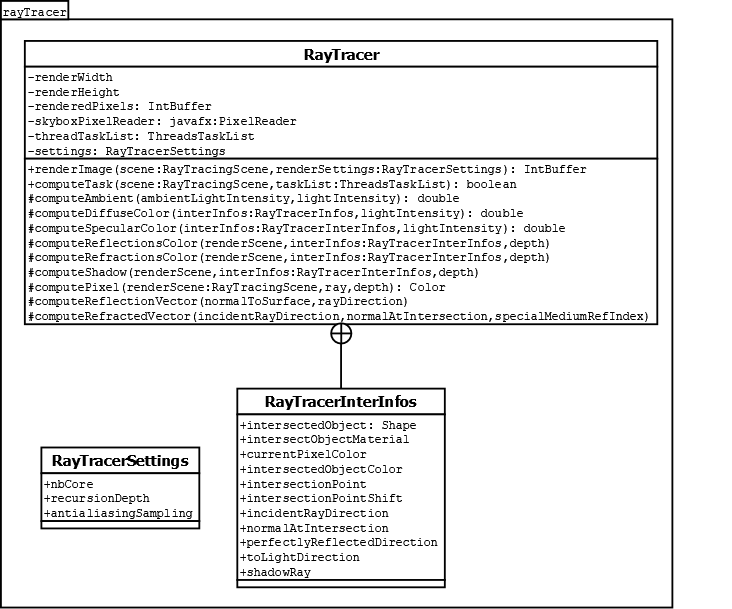
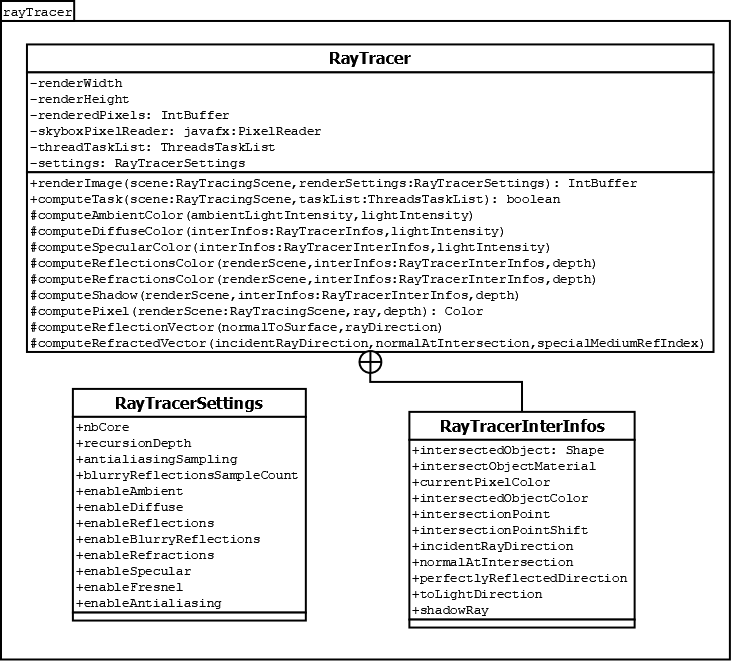
Mise à jour du diagramme du package rayTracer et rayTracingScene. Ajout d'un fichier séparé pour les annexes

Changed region(s): [[0.0301, 0.0312, 1.0, 1.0], [0.0, 0.0, 0.1202, 0.0312]]

diff --git a/rapport/latex/RT/mouvementsCam.tex b/rapport/latex/RT/mouvementsCam.tex
@@ -4,7 +4,7 @@
 \begin{document}
 
 
-Afin de pouvoir se déplacer dans la scène, nous nous sommes attelé à l'implémentation de mouvements de caméra grâce aux touches du clavier. Les mouvements possible sont: les translations de la caméra ainsi que les rotations de cette dernière autour des axes X et Y. Translater la caméra est assez simple. Il suffit de choisir un vecteur par lequel translater la caméra et appliquer cette même translation à l'origine des rayons (car leur origine doit rester la caméra) ainsi qu'à leur point de direction. Pour ce qui est des rotations, le principe est le même. En effet, faire une rotation de la caméra de 90\degree\ autour de l'axe Y revient à appliquer la même rotation aux points de direction des rayons. Afin de simplifier l'utilisation des translation et des rotations, nous avons utilisé une matrice appelée la CTWMatrix (Camera To World Matrix). Cette matrice rassemble les transformations de translation et de rotation appliquées à la caméra. Il n'y a donc plus qu'à multiplier le point que l'on veut transformer par cette matrice et le tour est joué.\\
+Afin de pouvoir se déplacer dans la scène, nous nous sommes attelé à l'implémentation de mouvements de caméra grâce aux touches du clavier. Les mouvements possible sont: les translations de la caméra ainsi que les rotations de cette dernière autour des axes X et Y. Translater la caméra est assez simple. Il suffit de choisir un vecteur par lequel translater la caméra et appliquer cette même translation à l'origine des rayons (car leur origine doit rester la caméra) ainsi qu'à leur point de direction. Pour ce qui est des rotations, le principe est le même. En effet, faire une rotation de la caméra de 90\degree\ autour de l'axe Y revient à appliquer la même rotation aux points de direction des rayons. Afin de simplifier l'utilisation des translations et des rotations, nous avons utilisé une matrice appelée la CTWMatrix (Camera To World Matrix). Cette matrice rassemble les transformations de translation et de rotation appliquées à la caméra. Il n'y a donc plus qu'à multiplier le point que l'on veut transformer par cette matrice et le tour est joué.\\
 Les matrices de rotation dans un espace de dimension 3 se présentent sous la forme suivante:
 
 \begin{center}
@@ -52,5 +52,6 @@ On sait que la multiplication de deux matrices de rotation donne aussi une matri
 
 Multiplier un point par cette matrice revient alors à effectuer les rotations des deux matrices $R_{Y_{\alpha}}$ et $R_{X_{\beta}}$ et ensuite à translater le point résultant par le vecteur $\overrightarrow{u}(a, b, c)$.Tout cela en une seule opération de multiplication matricielle.
 
+Des schémas représentant les rotations de la caméra autour des axes X et Y sont disponibles en annexe \ref{annexe:rotationsCamera}
 
 \end{document}

diff --git a/rapport/latex/mesuresPerf.tex b/rapport/latex/mesuresPerf.tex
@@ -3,7 +3,7 @@
 
 \begin{document}
 
-Comme présenté dans la section \ref{multithreading}, nous application tire partie de toute la puissnce du processeur de la machine. Le but étant de réduire le temps de calcul, nous présentons dans cette section les gains perçus en terme de performances.\\
+Comme présenté dans la section \ref{multithreading}, nous application tire partie de toute la puissnce du processeur de la machine. Le but étant de réduire le temps de calcul, nous présentons dans cette section les gains perçus en terme de performances suite au multithreading de notre application.\\
 Nous comparerons les temps de rendu par image pour différentes résolutions et différents nombre de threads. L'image sera toujours découpée en $nbThread^2$ tuiles.
 
 \begin{figure}[h!]
@@ -15,6 +15,5 @@ Nous comparerons les temps de rendu par image pour différentes résolutions et 
 \FloatBarrier
 Toutes les mesures ont été faites sur un CPU disposant de 8 processeurs. La scène rendue est la même que celle de la \figurename\ \ref{reflectionsDemo}.\\
 On observe une réduction significative des temps de rendu quand le nombre de threads utilisé augmente. On passe en effet, pour une résolution de 512*512, de 72.87ms en moyenne à 16.72ms de temps de calcul par image. Cela se traduit par un affichage fluide d'un peu moins de 15 images par seconde avec 1 thread. Avec 8 threads, nous passons à environ 60 images par seconde. Les performances ont donc été multipliées par 4.\\
-Cette multiplication des performances nous permet entre autre de pouvoir profiter de mouvements fluides lorsque l'on déplace la caméra. Sans ces 8 threads, les mouvement seraient saccadés et peu agréables dû aux temps de rendu trop importants. Bien entendu, les temps de rendu dépendent aussi de la complexité de la scène. Nous avons remarqué que les matériaux réfractifs ont tendance à être plus lourds à calculer que les matériaux mats. Cela s'explique par le fait qu'un matériau réfractif demande de nombreux appels récursifs.
 
 \end{document}

diff --git a/rapport/latex/RT/multithreading.tex b/rapport/latex/RT/multithreading.tex
@@ -6,11 +6,11 @@
 \label{multithreading}
 Les algorithmes de ray tracing sont réputés pour être lents à exécuter. Cependant, chaque pixel pouvant être calculé totalement indépendemment des autres, ces algorithmes sont des cibles parfaites pour la parallélisation de calcul. Nous avons donc mis en place, afin d'accélérer les temps de rendu, un multithreading de l'application grâce aux threads de Java. Pour ce faire, nous découpons l'image à rendre en plusieures "tuiles". Nous construisons ensuite une tâche à partir de chaque tuile. Une tâche consistant en:
 \begin{itemize}
-	\item{Un pixel de départ X et Y}	
-	\item{Un pixel d'arrivée X et Y}
+	\item{Un pixel de départ X et Y sur l'image à rendre}	
+	\item{Un pixel d'arrivée X et Y sur l'image à rendre}
 \end{itemize}
-A partir de toutes ces tâches est ensuite construite une liste de tâche. Cette dernière servira aux threads. Ils viendront en effet piocher dans la liste afin de récupérer les informations sur la zone de l'image qu'ils ont à rendre.
-Un diagramme de classe illustre le fonctionnement du package multithreading dans la section \ref{packageMultithreading}.
+A partir de toutes ces tâches isolées est ensuite construite une liste de tâche. Cette dernière servira aux threads. Ils viendront en effet piocher dans la liste afin de récupérer les informations sur la zone de l'image qu'ils ont à rendre.
+Un diagramme présente le package multithreading dans la section \ref{packageMultithreading}.
 
 Afin d'éviter les situations de concurrences entre les threads, la plupart des méthodes de la classe \textit{ThreadsTaskList} sont \textit{\textbf{synchronized}}. Grâce à ce mot clé, seulement un thread du programme peut accéder à la méthode à un instant t et nous évitons ainsi les problèmes de concurrence.
 

diff --git a/rapport/latex/appendices.tex b/rapport/latex/appendices.tex
@@ -1,0 +1,42 @@
+\documentclass[11pt]{article}
+
+\begin{document}
+	\begin{appendices}
+		\section{Le ray tracer}
+			\subsection{Configuration d'une caméra, d'une scène et de rayons}
+			\begin{figure}[h!]
+				\adjustbox{center}{\includegraphics[width=1.1\textwidth]{img/rt/repCam2Rayonsv2.png}}
+
+				\caption{Des rayons sont tirés depuis la caméra dans sa direction de regard. Nous cherchons les points d'intersection avec les objets de la scène.}
+			\end{figure}
+			\FloatBarrier
+			\label{annexe:repreCamRayon}
+
+			\subsection{Le principe récursif des réflexions}
+			\begin{figure}[h!]
+				\adjustbox{center}{\includegraphics[width=1.1\textwidth]{img/rt/reflectionsSchema.png}}
+
+				\caption{Exemple de rebonds successifs des rayons jusqu'à un objet non réfléchissant}
+				\label{reflectionsSchema}
+			\end{figure}
+			\FloatBarrier
+			\label{annexe:reflexionsRecursives}
+			
+			\subsection{Rotations de la caméra}
+			\begin{figure}[h!]
+				\adjustbox{center}{\includegraphics[width = 0.75\textwidth]{img/rt/rotationCameraY.png}}
+				
+				\caption {Exemples de rotations de la caméra autour de l'axe Y. 'Rotation 0' est la direction de regard de la caméra avant toute rotation.}
+			\end{figure}
+			\FloatBarrier
+			
+			\begin{figure}[h!]
+				\adjustbox{center}{\includegraphics[width = 0.75\textwidth]{img/rt/rotationCameraX.png}}
+				
+				\caption {Exemples de rotations de la caméra autour de l'axe X. 'Rotation 0' est la direction de regard de la caméra avant toute rotation.}
+			\end{figure}
+			\FloatBarrier
+			\label{annexe:rotationsCamera}
+	\FloatBarrier
+	\end{appendices}
+\end{document}

diff --git a/rapport/latex/packages/RTpackages.tex b/rapport/latex/packages/RTpackages.tex
@@ -3,16 +3,15 @@
 
 \begin{document}
 
-Pour rendre une image, le RayTracer a besoin de:
+Pour calculer un rendu, le RayTracer a besoin de:
 \begin{itemize}
 	\item{Une résolution de rendu}
 	\item{Une scène contenant les objets à rendre}
 	\item{Une ou plusieures sources de lumière}
 	\item{Une caméra}
-	\item{Une profondeur maximale de récursion}
 	\item{Un nombre de thread sur lequel le rendu sera effectué}
 \end{itemize}
-La résolution de rendu est fixe et est donnée au constructeur du RayTracer. Les autres réglages sont quant à eux dynamiques. S'ils sont modifiés, le ray tracer adaptera alors son rendu en conséquence.
+La résolution de rendu est fixe et est donnée au constructeur du RayTracer. Les autres réglages, se trouvant dans la classe \textit{RayTracerSettings} sont quant à eux dynamiques. S'ils sont modifiés, le ray tracer adaptera alors son rendu en conséquence et en temps réel.
 
 \begin{figure}[h!]
 	\adjustbox{center}{\includegraphics[width=\textwidth]{diagrammes/diagramme_RayTracer.png}}
@@ -21,6 +20,8 @@ La résolution de rendu est fixe et est donnée au constructeur du RayTracer. Le
 	\label{diagrammeRayTracer}
 \end{figure}
 \FloatBarrier
+
+La classe \textit{RayTracerInterInfos} est une classe interne à RayTracer. Elle récolte toutes les informations concernant l'intersection d'un rayon et d'un objet de la scène. Cette classe permet, en interne, une gestion plus facile du ray tracer et du calcul des réflexions, réfractions, etc...
 
 \begin{figure}[h!]
 	\adjustbox{center}{\includegraphics[width=0.52\textwidth]{diagrammes/classe_RayTracingScene.png}}

diff --git a/rapport/Rapport RayTracer.tex b/rapport/Rapport RayTracer.tex
@@ -151,11 +151,11 @@ showstringspaces=false}
 
 \section{Analyse des résultats}
     \subsection{Mesure des performances}
-        \subfile{latex/other/mesuresPerf.tex}
+        \subfile{latex/mesuresPerf.tex}
 
     \subsection{Comparaison avec povRay}
 \section{Idées d'améliorations}
-    \subfile{latex/other/ideesAmelios.tex}
+    \subfile{latex/ideesAmelios.tex}
 \section{Conclusion}
 
 
@@ -164,28 +164,7 @@ showstringspaces=false}
 
 
 \newpage%Nouvelle page pour les annexes
-\begin{appendices}
-	\section{Le ray tracer}
-		\subsection{Configuration d'une caméra, d'une scène et de rayons}
-		\begin{figure}[h!]
-			\adjustbox{center}{\includegraphics[width=1.1\textwidth]{img/rt/repCam2Rayonsv2.png}}
-
-			\caption{Des rayons sont tirés depuis la caméra dans sa direction de regard. Nous cherchons les points d'intersection avec les objets de la scène.}
-		\end{figure}
-		\FloatBarrier
-		\label{annexe:repreCamRayon}
-
-		\subsection{Le principe récursif des réflexions}
-		\begin{figure}[!h]
-			\adjustbox{center}{\includegraphics[width=1.1\textwidth]{img/rt/reflectionsSchema.png}}
-
-			\caption{Exemple de rebonds successifs des rayons jusqu'à un objet non réfléchissant}
-			\label{reflectionsSchema}
-		\end{figure}
-		\FloatBarrier
-		\label{annexe:reflexionsRecursives}
-\FloatBarrier
-\end{appendices}
+\subfile{latex/appendices}
 
 \newpage%Nouvelle page pour la bibliographie
 \nocite{*}

diff --git a/rapport/latex/packages/materials.tex b/rapport/latex/packages/materials.tex
@@ -14,8 +14,8 @@ Nous allons donc organiser toutes ces caractéristiques dans ce que l'on va appe
 \end{figure}
 \FloatBarrier
 
-Une classe mère Material permet de définir un matériau complètement arbitrairement. Toutes les caractéristiques peuvent être choisies comme on le souhaite.\\
-Différentes classes héritent ensuite de cette classe mère afin de définir des catégories de matériau avec des propriétés fixées. Ces classes sont cependant devenues obsolètes avec la finition du parser qui ne peut constuire que des matériaux arbitraires.
+Une classe mère Material permet de définir un matériau complètement arbitrairement. Toutes les caractéristiques peuvent être choisies comme on le souhaite. C'est cette classe qu'utilise le parser de fichier POV lorsqu'il doit construire un matériau à partir de ce qu'il rencontre dans le fichier POV donné en entrée.\\
+Différentes classes héritent ensuite de cette classe mère afin de définir des catégories de matériau avec des propriétés fixées. Ces classes sont cependant devenues obsolètes après la finition du parser qui ne peut constuire que des matériaux arbitraires.
 
 
 \end{document}

diff --git a/rapport/latex/RT/checkerboardSkybox.tex b/rapport/latex/RT/checkerboardSkybox.tex
@@ -52,7 +52,7 @@ Afin de rendre les réflexions de la scène plus remarquables et cette dernière
 \end{figure}
 \FloatBarrier
 
-Bien que simple, cet algorithme d'UV mapping nous a permis d'embrayer sur l'implémentation d'une skybox. Notre skybox n'est autre qu'une image équirectangulaire haute résolution d'un espace à ciel ouvert. Pour l'afficher correctement comme le ciel de notre scène, nous allons, là encore, utiliser un mécanisme d'UV mapping. C'est en effet un moyen simple de convertir les coordonnées d'un point sur une sphère hypothétique de rayon 1 (notre ciel) en des coordoonées 2D pour une image.
+Bien que simple, cet algorithme d'UV mapping nous a permis d'embrayer sur l'implémentation d'une skybox. Notre skybox n'est autre qu'une image équirectangulaire haute résolution d'un espace à ciel ouvert. Pour l'afficher correctement comme le ciel de notre scène, nous allons, là encore, utiliser un mécanisme d'UV mapping. C'est en effet un moyen simple de convertir les coordonnées d'un point sur une sphère hypothétique de rayon 1 (notre ciel) en des coordoonées 2D pour une image (notre image haute résolution).
 
 
 \end{document}

diff --git a/rapport/latex/RT/reflections.tex b/rapport/latex/RT/reflections.tex
@@ -14,7 +14,7 @@ Une autre exigence du sujet (en plus de l'ombrage de Phong section \ref{ombrageP
 
 	\If(\tcp*[h]{La profondeur de récursion maximale a été atteinte}){depth == 0}
 	{
-		\Return{backgroundColor}
+		\Return{Color.BLACK}
 	}
 	\hfill\\
 
